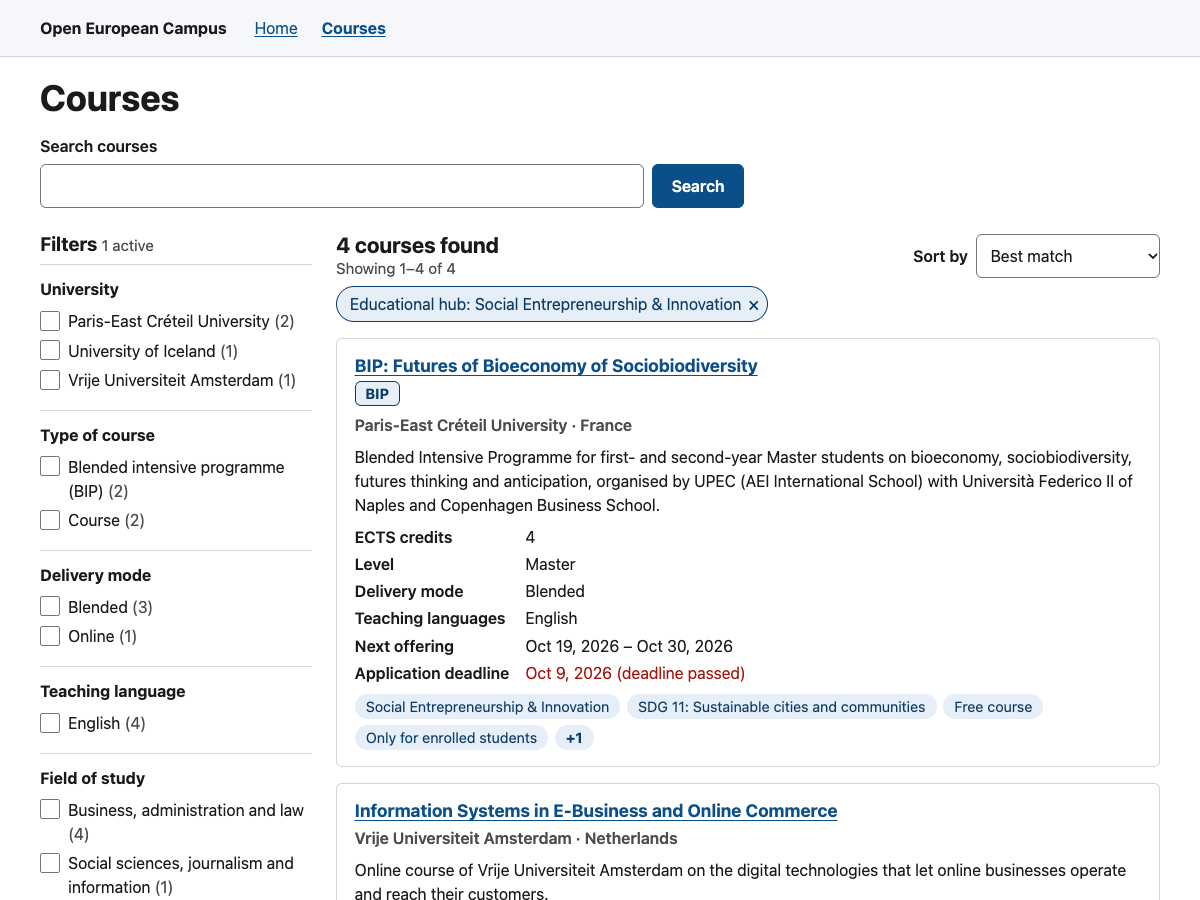
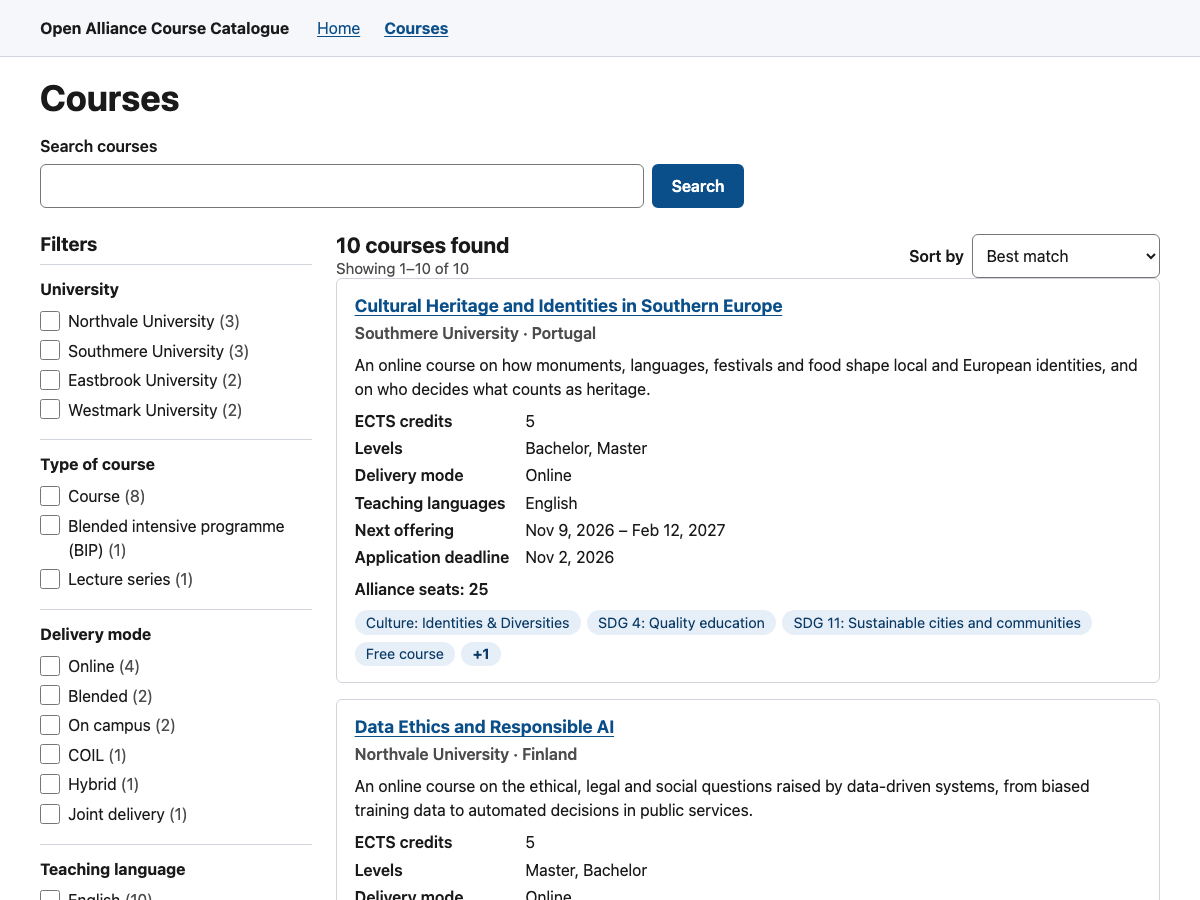
docs(images): README screenshots retaken with the example alliance
Taken on a fresh local stack seeded with organizations.example.json and
the ten example courses, without branding files: the header reads the new
product name and the content is fictional. The alt text of the catalogue
screenshot describes the unfiltered list it now shows.

diff --git a/docs/images/README.md b/docs/images/README.md
@@ -71,14 +71,14 @@ Three more, taken on 2026-10-18 from the development stack (release 0.9.0, profi
 | `ops-alert-email.png` | Mailpit with the Alertmanager delivery test open: subject "[OECP local] FIRING:1 OecpTestAlert (warning)", the firing alert with its three labels and the *View In Alertmanager* button. |
 | `ops-keycloak-admin-console.png` | Keycloak admin console, `master` realm, Users list with the single `admin` service account (warning icon, no e-mail) and the "temporary admin user" banner. |
 
-## Repository README (release 0.9.0, 2026-10-18)
+## Repository README (retaken 2026-10-22, after release 0.10.0)
 
-Taken on 2026-10-18 from the development stack (release 0.9.0) at 1200 pixels wide with Playwright, viewport only, with no branding images and a neutral alliance name (`OECP_ALLIANCE_NAME=European University Alliance`), so that the product looks generic; the data is the Aurora Virtual Campus 2026-27 CSV snapshot of `docs/data/` next to the simulated Innsbruck partner. Used by the repository [README](../../README.md) and listed as `screenshots` in `publiccode.yml`.
+Retaken on 2026-10-22 from a freshly reset development stack (built after release 0.10.0, with the product renamed to Open Alliance Course Catalogue) at 1200 pixels wide with Playwright, viewport only, with no branding images and the fictional alliance name `Example European Universities Alliance` (`OECP_ALLIANCE_NAME`), so that the product looks generic; the data is the fictional example alliance 2026-27 of `docs/data/example-alliance-2026-27` (four invented universities, 10 courses). Used by the repository [README](../../README.md) and listed as `screenshots` in `publiccode.yml`.
 
 | File | Shows |
 |---|---|
-| `readme-catalogue.png` | Course list filtered by the educational hub "Social Entrepreneurship & Innovation": filter sidebar with facet counts, the active filter chip, and course cards (a BIP and a course from different universities) with key facts and alliance tags. |
-| `readme-home.png` | Home page: text brand, search box, "Browse 30 courses with upcoming offerings", quick links by field of study and by university with course counts. |
+| `readme-catalogue.png` | Course list of the example alliance (1200 x 900 pixels): text brand "Open Alliance Course Catalogue", search box, filter sidebar with facet counts (university, type of course, delivery mode, teaching language), "10 courses found" and the first course cards with key facts, alliance seats and tags. |
+| `readme-home.png` | Home page of the example alliance (1200 x 800 pixels): text brand "Open Alliance Course Catalogue", search box, "Browse 10 courses with upcoming offerings", quick links by field of study and by university (Eastbrook, Northvale, Southmere, Westmark) with course counts. |
 
 ## Data-provider guides (release 0.9.0, 2026-10-18)
 

diff --git a/README.md b/README.md
@@ -18,7 +18,7 @@ dependence on an external managed platform.
 The full specification is [docs/spec-v4.1.md](docs/spec-v4.1.md). An index of
 all documentation is in [docs/README.md](docs/README.md).
 
-![Course list of the public catalogue filtered by one alliance attribute (educational hub): the filter sidebar with facet counts, the active filter chip, and course cards from several universities with ECTS, level, delivery mode, next offering, application deadline and the alliance tags](docs/images/readme-catalogue.png)
+![Course list of the public catalogue: the filter sidebar with facet counts by university, type of course, delivery mode and teaching language, and course cards from several universities with ECTS, levels, delivery mode, next offering, application deadline, alliance seats and the alliance tags](docs/images/readme-catalogue.png)
 
 ## Name
 
